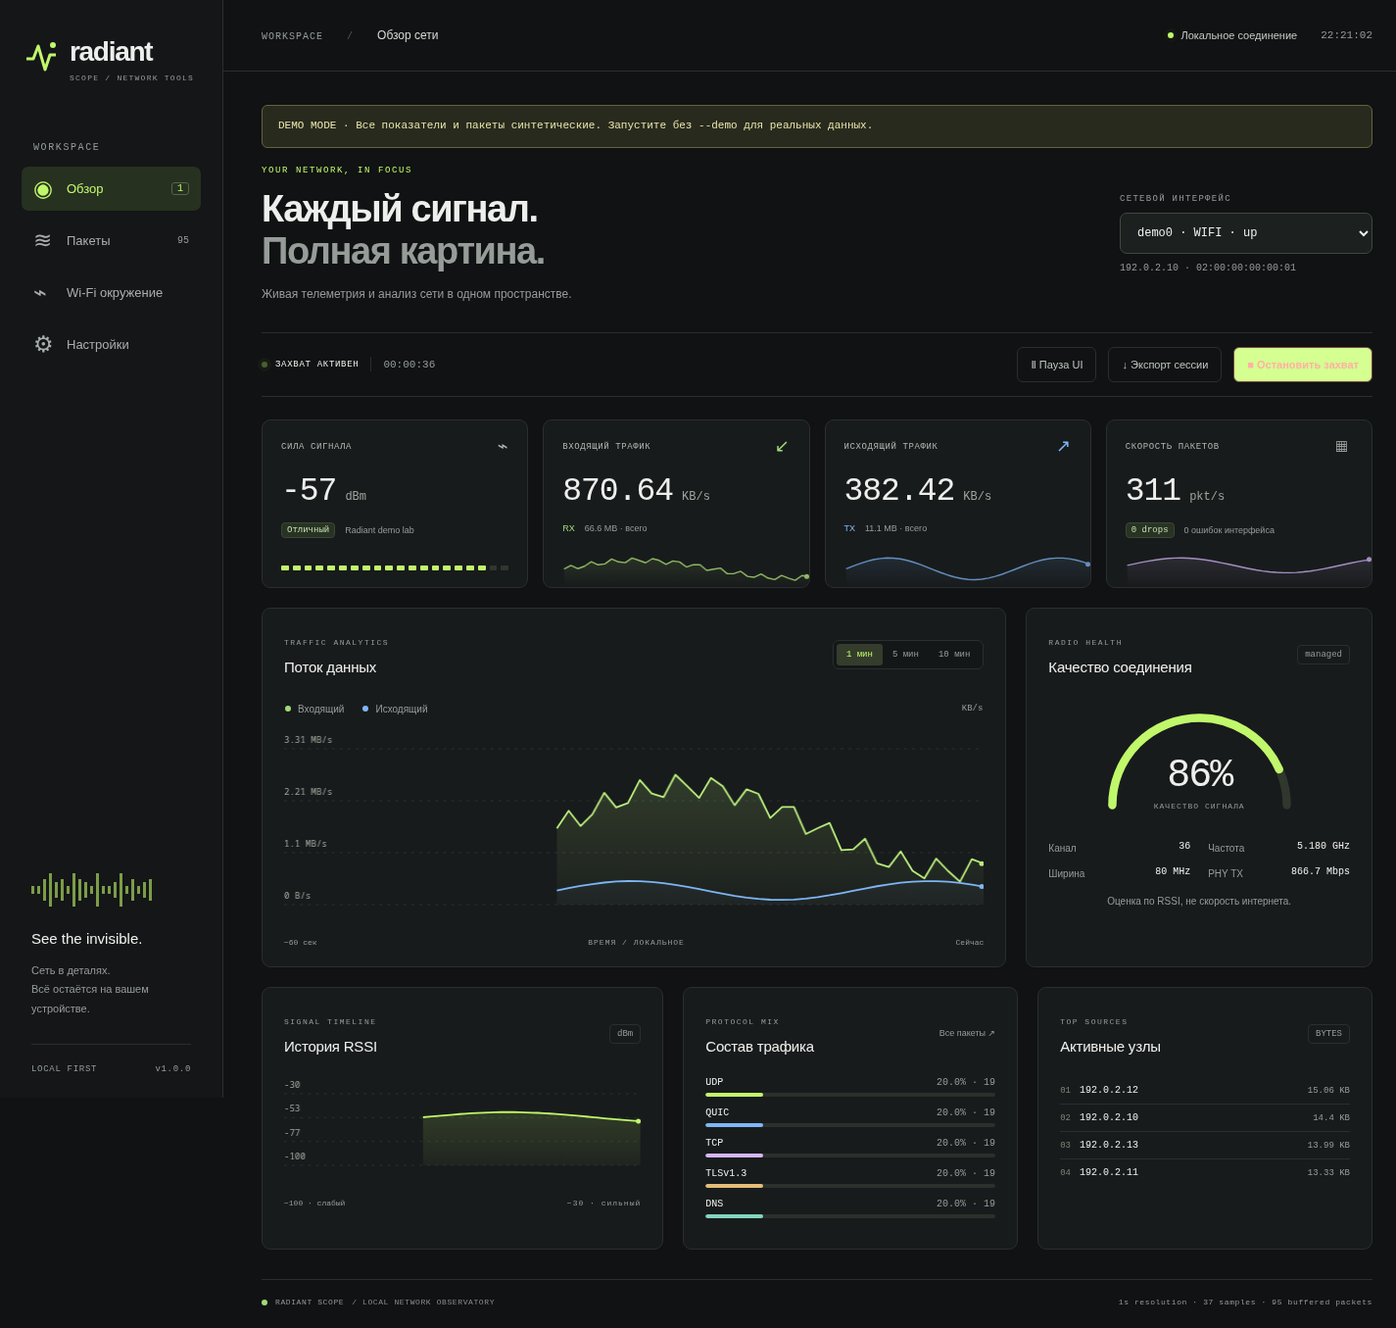
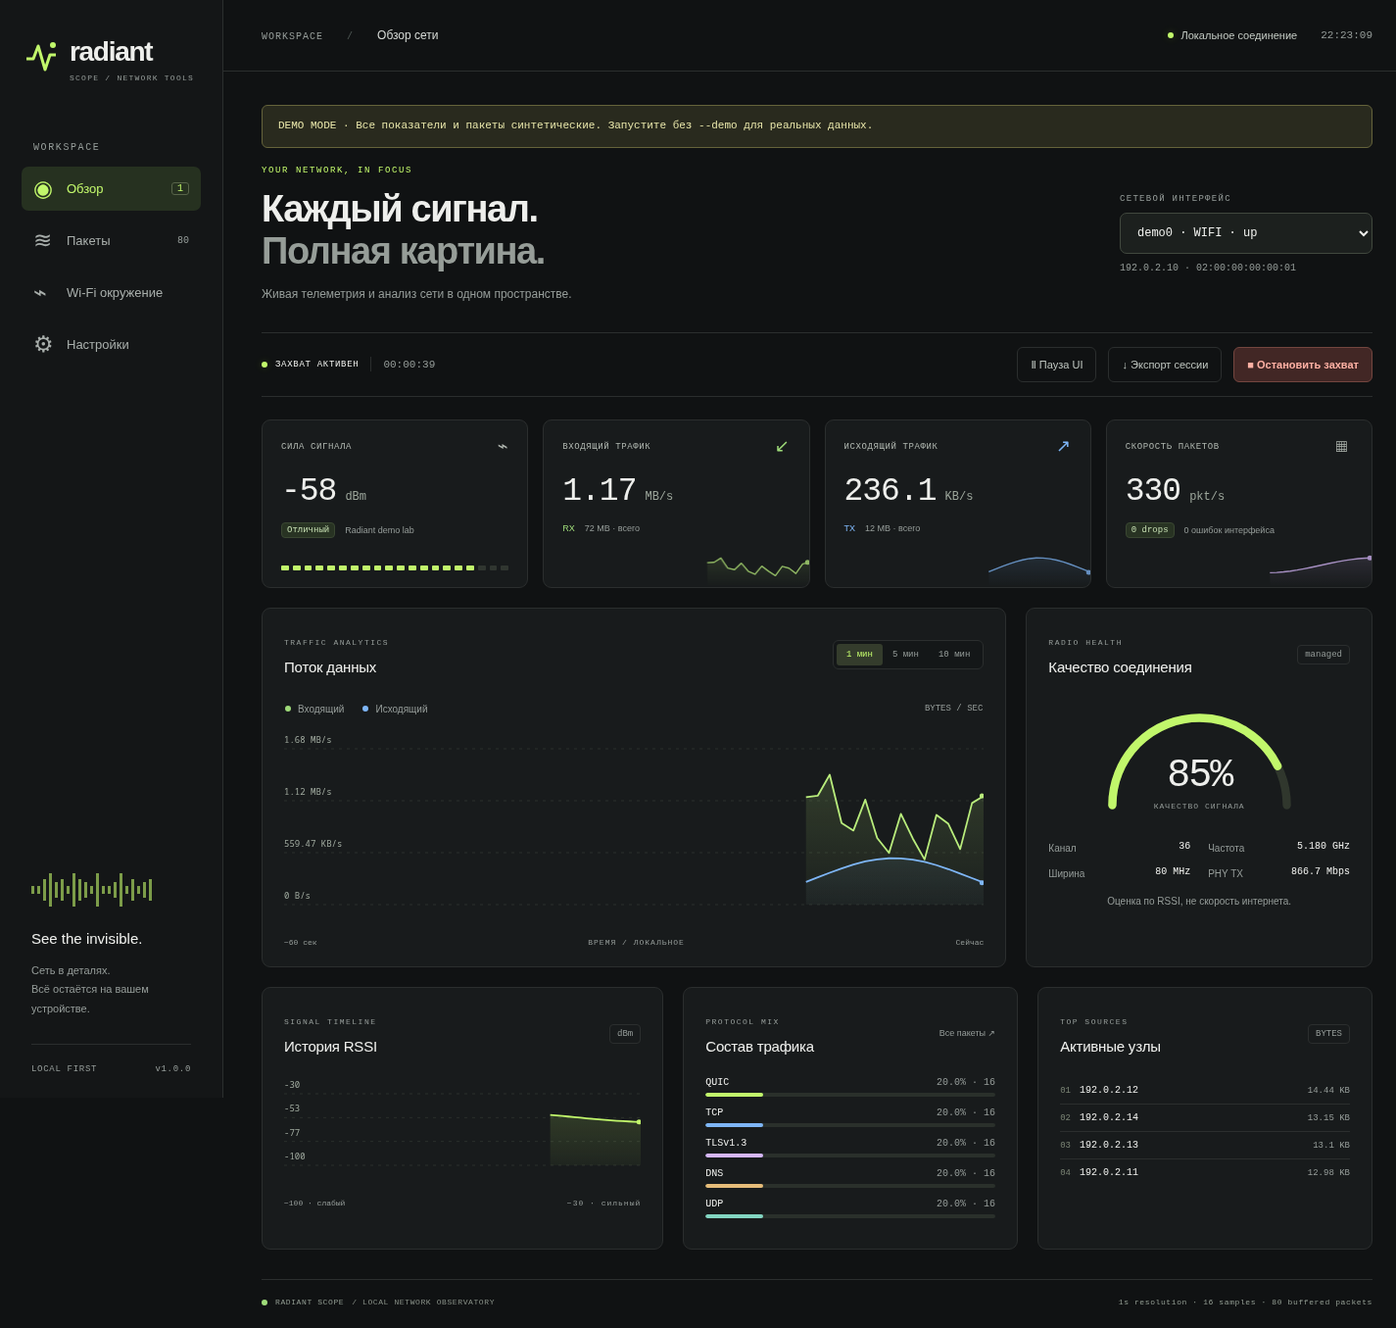
fix: polish capture control contrast and finalize release checksums

diff --git a/radiant_scope/web/style.css b/radiant_scope/web/style.css
@@ -1,2 +1,3 @@
 :root{color-scheme:dark;--bg:#101213;--panel:#181b1c;--line:#2b2e2e;--text:#eeefec;--muted:#959c99;--lime:#c1f76b;--green:#9edb79;--blue:#7eb6f6;--mono:'SFMono-Regular',Consolas,'Liberation Mono',monospace}*{box-sizing:border-box}body{margin:0;background:var(--bg);color:var(--text);font:14px/1.5 'Inter','Segoe UI',Arial,sans-serif}a{color:inherit;text-decoration:none}button,input,select{font:inherit}button,a,select,input{-webkit-tap-highlight-color:transparent}button,a,select{touch-action:manipulation}button{cursor:pointer}button:disabled{opacity:.5;cursor:wait}button:focus-visible,a:focus-visible,input:focus-visible,select:focus-visible{outline:2px solid var(--lime);outline-offset:4px}button,input,select{color:var(--text)}button{border:0}input,select{background:#111415;border:1px solid #3a3e3c;border-radius:7px;padding:11px 13px;min-height:42px}input{min-width:0}select{cursor:pointer}.sidebar{position:fixed;inset:0 auto 0 0;width:228px;padding:32px 22px 24px;border-right:1px solid var(--line);display:flex;flex-direction:column;background:#141617}.brand{display:flex;align-items:center;gap:9px;font-size:28px;letter-spacing:-1.3px;font-weight:650;margin-bottom:61px}.brand svg{width:40px;height:40px;color:var(--lime)}.brand-sub{display:block;font:8px var(--mono);letter-spacing:1.25px;color:var(--muted);margin-top:1px}.nav-label,.eyebrow{font:10px var(--mono);letter-spacing:1.6px;color:var(--muted)}.nav-label{padding:0 12px;margin-bottom:14px}nav{display:grid;gap:8px}nav a{display:flex;align-items:center;gap:13px;padding:11px 12px;color:#a8aeab;border-radius:7px;font-size:13px}nav a>span:first-child{font-size:23px;line-height:1;width:21px}nav a.active{background:#263120;color:var(--lime)}nav a:hover{background:#222624}nav kbd{margin-left:auto;font:10px var(--mono);border:1px solid #586449;padding:0 5px;border-radius:3px}.nav-badge{margin-left:auto;font:10px var(--mono);color:var(--muted)}.sidebar-bottom{margin-top:auto;padding:25px 10px 0}.sidebar-bottom strong{font-size:15px;font-weight:500}.sidebar-bottom p{font-size:11px;line-height:1.8;color:var(--muted)}.version{display:flex;justify-content:space-between;border-top:1px solid var(--line);padding-top:20px;margin-top:25px;font:9px var(--mono);color:var(--muted);letter-spacing:.7px}.mini-signal{display:flex;gap:3px;align-items:center;height:44px;margin-bottom:17px}.mini-signal i{width:3px;height:8px;background:var(--lime);opacity:.6}.mini-signal i:nth-child(3n){height:22px}.mini-signal i:nth-child(4n){height:34px}.mini-signal i:nth-child(5n){height:16px}.workspace{margin-left:228px}header{height:73px;display:flex;align-items:center;justify-content:space-between;padding:0 39px;border-bottom:1px solid var(--line)}.breadcrumb{font:10px var(--mono);letter-spacing:1px;color:var(--muted)}.breadcrumb span{margin:0 17px;color:#515956}.breadcrumb b{font:12px 'Segoe UI',Arial,sans-serif;letter-spacing:0;color:#d4d8d4}.header-right{display:flex;align-items:center;gap:24px}.status{font-size:11px;color:#c2c9c2;display:flex;align-items:center;gap:7px}.status i,.capture-state i{width:6px;height:6px;border-radius:50%;background:var(--lime);box-shadow:0 0 9px #c1f73a33}.clock{font:11px var(--mono);color:var(--muted)}main{max-width:1730px;margin:auto;padding:34px 39px 0}.page-heading{display:flex;justify-content:space-between;align-items:center;margin:4px 0 30px;gap:24px}.page-heading .eyebrow{color:var(--lime);font-size:9px}h1{font-size:38px;letter-spacing:-1.4px;line-height:1.15;font-weight:550;margin:13px 0 12px}h1 span{color:#969d98}.page-heading p{font-size:12px;color:var(--muted);margin:0}.heading-controls{width:258px}.interface-label{display:block;font:9px var(--mono);letter-spacing:1.3px;color:var(--muted);margin-bottom:9px}.heading-controls select{width:100%;background:#1c201e;border-color:#41483e;font-family:var(--mono);font-size:12px}.interface-note{color:var(--muted);font:10px var(--mono);margin-top:9px;overflow-wrap:anywhere}.toolbar{border-top:1px solid var(--line);border-bottom:1px solid var(--line);display:flex;justify-content:space-between;gap:15px;align-items:center;padding:14px 0;margin-bottom:23px}.toolbar-left,.toolbar-actions{display:flex;align-items:center;gap:12px}.capture-state{font:9px var(--mono);letter-spacing:.7px;display:flex;align-items:center;gap:8px}.capture-state.capturing i{animation:pulse 1.5s infinite}.divider{height:15px;width:1px;background:var(--line)}.mono{font:11px var(--mono);color:var(--muted)}.button{min-height:36px;padding:8px 13px;display:inline-flex;align-items:center;justify-content:center;gap:6px;border:1px solid var(--line);border-radius:6px;font-size:11px;white-space:nowrap;background:transparent;transition:background .18s,color .18s}.button:hover{background:#2b312c}.button.primary{background:var(--lime);border-color:var(--lime);color:#19200f;font-weight:650}.button.primary:hover{background:#d5ff91}.button.danger{background:#422725;color:#ffb1a4;border-color:#74463f}.quiet{color:#bdc4be}.metrics{display:grid;grid-template-columns:repeat(4,minmax(0,1fr));gap:15px;margin-bottom:20px}.metric{position:relative;background:var(--panel);border:1px solid var(--line);border-radius:9px;padding:18px 19px 50px;overflow:hidden;min-height:170px}.metric-label{font:9px var(--mono);letter-spacing:.6px;color:#b0b7b0;display:flex;justify-content:space-between;align-items:center}.metric-label>span{font-size:18px;line-height:1}.metric-value{display:flex;align-items:baseline;gap:9px;margin:12px 0 7px;font-family:var(--mono)}.metric-value>span{font-size:33px;letter-spacing:-1px}.metric-value small{color:#9ca69b;font-size:12px}.metric-foot{display:flex;gap:10px;align-items:center;color:var(--muted);font-size:9px;white-space:nowrap}.tag{font:9px var(--mono);background:#283323;color:#c6dfb2;border:1px solid #3a4732;border-radius:4px;padding:2px 5px;white-space:nowrap}.truncate{overflow:hidden;text-overflow:ellipsis}.green{color:var(--green)}.blue{color:var(--blue)}.spark{position:absolute;bottom:0;left:0;width:100%;height:40px;opacity:.75}.signal-scale{position:absolute;bottom:17px;left:19px;right:19px;display:flex;gap:4px}.signal-scale i{flex:1;height:5px;border-radius:1px;background:#303630}.signal-scale i.lit{background:var(--lime)}.panel{background:var(--panel);border:1px solid var(--line);border-radius:9px;overflow:hidden;min-width:0}.panel-heading{display:flex;align-items:center;justify-content:space-between;gap:12px;padding:22px 22px 0}.panel-heading .eyebrow{font-size:8px;letter-spacing:1.5px}h2{font-size:15px;font-weight:500;margin:6px 0 0;letter-spacing:-.2px}.chart-layout{display:grid;grid-template-columns:minmax(0,2.15fr) minmax(270px,1fr);gap:20px;margin-bottom:20px}.segmented{display:flex;padding:3px;border:1px solid var(--line);border-radius:6px;background:#141718}.segmented button{background:transparent;color:var(--muted);font:9px var(--mono);padding:6px 10px;border-radius:3px}.segmented button.selected{background:#343c2c;color:var(--lime)}.chart-legend{display:flex;gap:19px;padding:23px 23px 0;font-size:10px;color:var(--muted)}.chart-legend>span{display:flex;align-items:center;gap:7px}.chart-legend>span:last-child{margin-left:auto;font-size:9px}.dot{display:inline-block;width:6px;height:6px;border-radius:50%;flex-shrink:0}.green-bg{background:var(--green)}.blue-bg{background:var(--blue)}.main-chart{display:block;width:calc(100% - 44px);height:205px;margin:10px 22px 0}.chart-axis{display:flex;justify-content:space-between;gap:12px;font:8px var(--mono);color:var(--muted);padding:11px 22px 20px}.chart-axis span:nth-child(2){letter-spacing:1px}.tiny-label{font:9px var(--mono);color:var(--muted);padding:4px 7px;border:1px solid var(--line);border-radius:4px}.gauge{position:relative;width:225px;height:142px;margin:13px auto 0}.gauge svg{width:100%;height:100%;overflow:visible}.gauge-track,#gauge-fill{fill:none;stroke-width:9;stroke-linecap:round}.gauge-track{stroke:#30372d}#gauge-fill{stroke:var(--lime);stroke-dasharray:0 100;transition:stroke-dasharray 1s}.gauge-value{position:absolute;bottom:21px;text-align:center;width:100%;display:flex;flex-direction:column;gap:4px}.gauge-value strong{font:40px var(--mono);letter-spacing:-2px}.gauge-value span{font:8px var(--mono);letter-spacing:1px;color:var(--muted)}.radio-details{display:grid;grid-template-columns:1fr 1fr;padding:10px 22px 0;gap:11px 18px}.radio-details>div{display:flex;justify-content:space-between;gap:8px;font-size:10px}.radio-details span{color:var(--muted)}.radio-details b{font:10px var(--mono);font-weight:400}.small-note{font-size:10px;line-height:1.8;color:var(--muted)}.signal-panel>.small-note{text-align:center;margin:12px 0 18px}.lower-layout{display:grid;grid-template-columns:1.2fr 1fr 1fr;gap:20px}.signal-chart{display:block;width:calc(100% - 44px);height:119px;margin:14px 22px 0}.text-link{color:var(--muted);font-size:9px;white-space:nowrap}.text-link:hover{color:var(--lime)}.protocols,.talkers{padding:20px 22px}.protocol-row{margin-bottom:11px}.protocol-row>div{display:flex;justify-content:space-between;font:10px var(--mono);margin-bottom:5px}.protocol-row>div span:last-child{color:var(--muted)}.bar{height:4px;background:#2a302b;border-radius:2px;overflow:hidden}.bar i{display:block;height:100%;background:var(--lime);border-radius:2px;transition:width .6s}.talker{display:flex;align-items:center;gap:9px;padding:8px 0;border-bottom:1px solid var(--line);font:10px var(--mono)}.talker:last-child{border:0}.talker .rank{color:#798273;font-size:9px}.talker .address{overflow:hidden;text-overflow:ellipsis;white-space:nowrap}.talker .volume{margin-left:auto;color:var(--muted);white-space:nowrap;font-size:9px}footer{display:flex;justify-content:space-between;gap:10px;margin-top:30px;border-top:1px solid var(--line);padding:18px 0 22px;font:8px var(--mono);color:#929c92;letter-spacing:.6px}footer>span:first-child{display:flex;align-items:center;gap:8px}.muted{color:#889087}.empty{padding:48px 24px;text-align:center;color:var(--muted);font-size:12px}.empty h3{color:var(--text);font-size:16px;font-weight:500}.empty p{line-height:1.9}.empty.compact{padding:24px 0;font-size:11px;text-align:left}.empty-icon{font:45px var(--mono);color:#647457}.hidden{display:none!important}.notice{padding:12px 16px;border:1px solid #65633b;background:#292a1e;color:#e6e4a8;font:11px/1.6 var(--mono);border-radius:6px;margin-bottom:18px;white-space:pre-wrap;overflow-wrap:anywhere}.notice.error{background:#2b1d1c;border-color:#79463f;color:#ffb4a6}.packet-filters{display:flex;gap:10px;align-items:center;margin:22px}.packet-filters input{flex:1}.packet-filters .small-note{white-space:nowrap}.table-scroll{overflow:auto;max-height:570px}table{width:100%;border-collapse:collapse;text-align:left;white-space:nowrap;font:10px var(--mono)}th{color:var(--muted);font-weight:400;background:#1e2221;position:sticky;top:0;z-index:1}th,td{padding:12px 15px;border-bottom:1px solid var(--line)}tbody tr{cursor:pointer}tbody tr:hover{background:#222a21}tbody tr:focus{outline:2px solid var(--lime);outline-offset:-2px}td:last-child{max-width:480px;overflow:hidden;text-overflow:ellipsis}.protocol-pill{background:#283725;color:var(--lime);padding:3px 5px;border-radius:3px}.panel-footer{padding:14px 22px;font-size:10px;color:var(--muted);border-top:1px solid var(--line)}#packet-detail{margin-top:20px}dl{padding:8px 22px 22px;display:grid;grid-template-columns:130px 1fr;gap:10px;font:12px var(--mono)}dt{color:var(--muted)}dd{margin:0;overflow-wrap:anywhere;white-space:pre-wrap}.wireless-layout{display:grid;grid-template-columns:1.6fr 1fr;gap:20px}.section-note{font-size:11px;color:var(--muted);padding:0 22px;margin:16px 0;line-height:1.8}.networks{padding:0 22px 15px}.network{display:grid;grid-template-columns:1fr auto;gap:10px;padding:17px 0;border-top:1px solid var(--line)}.network strong{font-size:13px;font-weight:500}.network small{display:block;font:10px var(--mono);color:var(--muted);margin-top:6px}.network .strength{font:18px var(--mono);color:var(--lime);text-align:right}.network .strength small{font:9px var(--mono)}.channels{padding:15px 22px;display:grid;gap:15px}.channel-row{display:grid;grid-template-columns:55px 1fr 20px;align-items:center;gap:10px;font:11px var(--mono)}.channel-row .bar{height:14px;border-radius:2px}.settings-layout{display:grid;grid-template-columns:1.1fr 1fr;gap:20px}.settings-body{padding:22px}.settings-body>label:not(.check-row){display:block;font-size:12px;margin-bottom:9px}.settings-body>input,.settings-body>select{width:100%;margin-bottom:4px}.filter-presets{display:flex;flex-wrap:wrap;gap:7px;margin:15px 0 26px}.filter-presets button{background:#252d22;color:#d4e3c4;font:10px var(--mono);padding:7px 10px;border-radius:4px;border:1px solid #3b4831}.check-row{display:flex;gap:13px;align-items:flex-start;border-top:1px solid var(--line);padding-top:20px;margin:20px 0}.check-row input{min-height:16px;accent-color:var(--lime);margin:3px 0;flex-shrink:0}.check-row b{font-size:12px;font-weight:500}.check-row small{display:block;font-size:11px;color:var(--muted);line-height:1.8;margin-top:5px}.tools{padding:20px 22px 0}.tool{display:flex;justify-content:space-between;padding:10px 0;border-bottom:1px solid var(--line);font:12px var(--mono)}.tool .available{color:var(--lime)}.tool .missing{color:#ffb4a6}.setup h3{font-size:13px;font-weight:500;margin:10px 0}.setup p{font-size:11px;color:var(--muted)}pre{overflow:auto;background:#101411;border:1px solid var(--line);padding:14px;border-radius:5px;color:#cbdcc0;font:10px/1.9 var(--mono)}.toast{position:fixed;bottom:25px;right:25px;max-width:min(480px,90vw);padding:14px 20px;border:1px solid #637e44;border-radius:8px;background:#28351f;color:#e3f3d2;box-shadow:0 12px 45px #0008;z-index:5;font-size:12px}.no-motion *{animation:none!important;transition:none!important}@keyframes pulse{50%{opacity:.3;box-shadow:0 0 0 4px #c1f73a20}}@media(min-width:1600px){h1{font-size:44px}.main-chart{height:250px}.metric{min-height:183px}.metric-value>span{font-size:38px}}@media(max-width:1200px){.sidebar{width:195px;padding:30px 15px}.workspace{margin-left:195px}main{padding:27px 25px 0}header{padding:0 25px}.metric{padding:15px 13px 48px}.metric-value>span{font-size:27px}.metric-foot{gap:6px;font-size:8px}.panel-heading{padding:18px 17px 0}.lower-layout{grid-template-columns:1.1fr 1fr}.lower-layout>.panel:last-child{grid-column:1/-1}.talkers{display:flex;gap:20px;flex-wrap:wrap}.talker{min-width:200px;flex:1}.chart-layout{grid-template-columns:minmax(0,1.7fr) minmax(245px,1fr)}}@media(max-width:950px){.sidebar{width:75px;padding:23px 10px}.brand{justify-content:center}.brand>span,.nav-label,.sidebar-bottom,nav a> :not(:first-child),nav a kbd{display:none}.brand svg{min-width:38px}.workspace{margin-left:75px}nav a{font-size:0;justify-content:center;padding:13px 5px}nav a>span:first-child{font-size:24px}.metrics{grid-template-columns:1fr 1fr}.metric-foot{font-size:10px}.metric-value>span{font-size:34px}.metric{padding:18px 19px 50px}.chart-layout{grid-template-columns:1fr 275px;gap:14px}.toolbar{flex-wrap:wrap}.toolbar-actions{margin-left:auto}.settings-layout,.wireless-layout{grid-template-columns:1fr}.heading-controls{width:235px}.packet-filters{flex-wrap:wrap}}@media(max-width:720px){header{height:56px;padding:0 17px}.header-right .clock{display:none}main{padding:25px 16px 0}.page-heading{flex-direction:column;align-items:stretch;gap:24px}.heading-controls{width:100%}h1{font-size:34px}.chart-layout,.lower-layout{grid-template-columns:1fr}.lower-layout>.panel:last-child{grid-column:auto}.metrics{gap:10px}.metric{padding:15px 12px 44px;min-height:158px}.metric-value>span{font-size:29px}.metric-label{font-size:8px}.metric-foot{font-size:8px;gap:5px}.toolbar-left{width:100%}.toolbar-actions{margin:0;gap:7px;flex-wrap:wrap}.button{font-size:10px;padding:8px 9px}.header-right{gap:0}.breadcrumb{font-size:8px}.breadcrumb span{margin:0 9px}.status{font-size:9px}.sidebar{width:58px;padding:21px 7px}.brand svg{min-width:33px;width:33px}.workspace{margin-left:58px}.brand{margin-bottom:35px}footer .muted,footer>span:last-child{display:none}.metric-foot>span:last-child{overflow:hidden;text-overflow:ellipsis}.packet-filters{margin:17px}.packet-filters input{width:100%;flex:auto}.panel-heading{flex-wrap:wrap}.gauge{margin-top:18px}.radio-details{padding-bottom:6px}.talkers{display:block}.section-note{padding:0 17px}.settings-body{padding:17px}dl{grid-template-columns:1fr}dt{margin-top:7px}.chart-axis span:nth-child(2){display:none}}@media(prefers-reduced-motion:reduce){*,*::before,*::after{animation:none!important;transition:none!important;scroll-behavior:auto!important}}
 .view{animation:arrive .25s ease-out}@keyframes arrive{from{opacity:.5;transform:translateY(5px)}to{opacity:1;transform:translateY(0)}}
+.button.primary.danger:hover{background:#55312c;border-color:#946054;color:#ffd0c5}

diff --git a/radiant_scope/web/index.html b/radiant_scope/web/index.html
@@ -23,7 +23,7 @@
 <article class="metric"><div class="metric-label">ИСХОДЯЩИЙ ТРАФИК <span class="blue">↗</span></div><div class="metric-value"><span id="tx">0</span><small id="tx-unit">KB/s</small></div><div class="metric-foot"><span class="blue">TX</span><span id="tx-total">0 B за время работы интерфейса</span></div><canvas id="tx-spark" class="spark" aria-label="Исходящий трафик"></canvas></article>
 <article class="metric"><div class="metric-label">СКОРОСТЬ ПАКЕТОВ <span>▦</span></div><div class="metric-value"><span id="pps">0</span><small>pkt/s</small></div><div class="metric-foot"><span class="tag" id="drops">0 drops</span><span id="errors">0 ошибок интерфейса</span></div><canvas id="pps-spark" class="spark" aria-label="Пакеты в секунду"></canvas></article>
 </div>
-<div class="chart-layout"><article class="panel throughput-panel"><div class="panel-heading"><div><span class="eyebrow">TRAFFIC ANALYTICS</span><h2>Поток данных</h2></div><div class="segmented" aria-label="Период графика"><button data-window="60" class="selected">1 мин</button><button data-window="300">5 мин</button><button data-window="600">10 мин</button></div></div><div class="chart-legend"><span><i class="dot green-bg"></i> Входящий</span><span><i class="dot blue-bg"></i> Исходящий</span><span class="mono" id="chart-unit">KB/s</span></div><canvas id="traffic-chart" class="main-chart" role="img" aria-label="График входящего и исходящего трафика во времени"></canvas><div class="chart-axis"><span id="range-start">−60 сек</span><span>ВРЕМЯ / ЛОКАЛЬНОЕ</span><span>Сейчас</span></div></article>
+<div class="chart-layout"><article class="panel throughput-panel"><div class="panel-heading"><div><span class="eyebrow">TRAFFIC ANALYTICS</span><h2>Поток данных</h2></div><div class="segmented" aria-label="Период графика"><button data-window="60" class="selected">1 мин</button><button data-window="300">5 мин</button><button data-window="600">10 мин</button></div></div><div class="chart-legend"><span><i class="dot green-bg"></i> Входящий</span><span><i class="dot blue-bg"></i> Исходящий</span><span class="mono" id="chart-unit">BYTES / SEC</span></div><canvas id="traffic-chart" class="main-chart" role="img" aria-label="График входящего и исходящего трафика во времени"></canvas><div class="chart-axis"><span id="range-start">−60 сек</span><span>ВРЕМЯ / ЛОКАЛЬНОЕ</span><span>Сейчас</span></div></article>
 <article class="panel signal-panel"><div class="panel-heading"><div><span class="eyebrow">RADIO HEALTH</span><h2>Качество соединения</h2></div><span class="tiny-label" id="wifi-mode">—</span></div><div class="gauge"><svg viewBox="0 0 240 145" aria-hidden="true"><path class="gauge-track" d="M25 120 A95 95 0 0 1 215 120"/><path id="gauge-fill" d="M25 120 A95 95 0 0 1 215 120" pathLength="100"/></svg><div class="gauge-value"><strong id="quality">—</strong><span>КАЧЕСТВО СИГНАЛА</span></div></div><div class="radio-details"><div><span>Канал</span><b id="channel">—</b></div><div><span>Частота</span><b id="frequency">—</b></div><div><span>Ширина</span><b id="width">—</b></div><div><span>PHY TX</span><b id="bitrate">—</b></div></div><p class="small-note">Оценка по RSSI, не скорость интернета.</p></article></div>
 <div class="lower-layout"><article class="panel"><div class="panel-heading"><div><span class="eyebrow">SIGNAL TIMELINE</span><h2>История RSSI</h2></div><span class="tiny-label">dBm</span></div><canvas id="signal-chart" class="signal-chart" role="img" aria-label="История RSSI в децибелах"></canvas><div class="chart-axis"><span>−100 · слабый</span><span>−30 · сильный</span></div></article><article class="panel"><div class="panel-heading"><div><span class="eyebrow">PROTOCOL MIX</span><h2>Состав трафика</h2></div><a href="#packets" class="text-link">Все пакеты ↗</a></div><div id="protocols" class="protocols"><div class="empty compact">Начните захват для анализа протоколов.</div></div></article><article class="panel"><div class="panel-heading"><div><span class="eyebrow">TOP SOURCES</span><h2>Активные узлы</h2></div><span class="tiny-label">BYTES</span></div><div id="talkers" class="talkers"><div class="empty compact">Здесь появятся источники пакетов.</div></div></article></div>
 </section>

diff --git a/scripts/build_release.py b/scripts/build_release.py
@@ -15,6 +15,6 @@ with tempfile.TemporaryDirectory() as tmp:
     artifact = out / 'radiant-scope-1.0.0.pyz'
     zipapp.create_archive(stage, artifact, interpreter='/usr/bin/env python3', main='radiant_scope.server:main', compressed=True)
     artifact.chmod(0o755)
-    checksum = hashlib.sha256(artifact.read_bytes()).hexdigest()
-    (out / 'SHA256SUMS').write_text(f'{checksum}  {artifact.name}\n')
+    artifacts = sorted(p for p in out.iterdir() if p.name.endswith(('.pyz', '.whl', '.tar.gz')))
+    (out / 'SHA256SUMS').write_text(''.join(f'{hashlib.sha256(p.read_bytes()).hexdigest()}  {p.name}\n' for p in artifacts))
     print(artifact)
